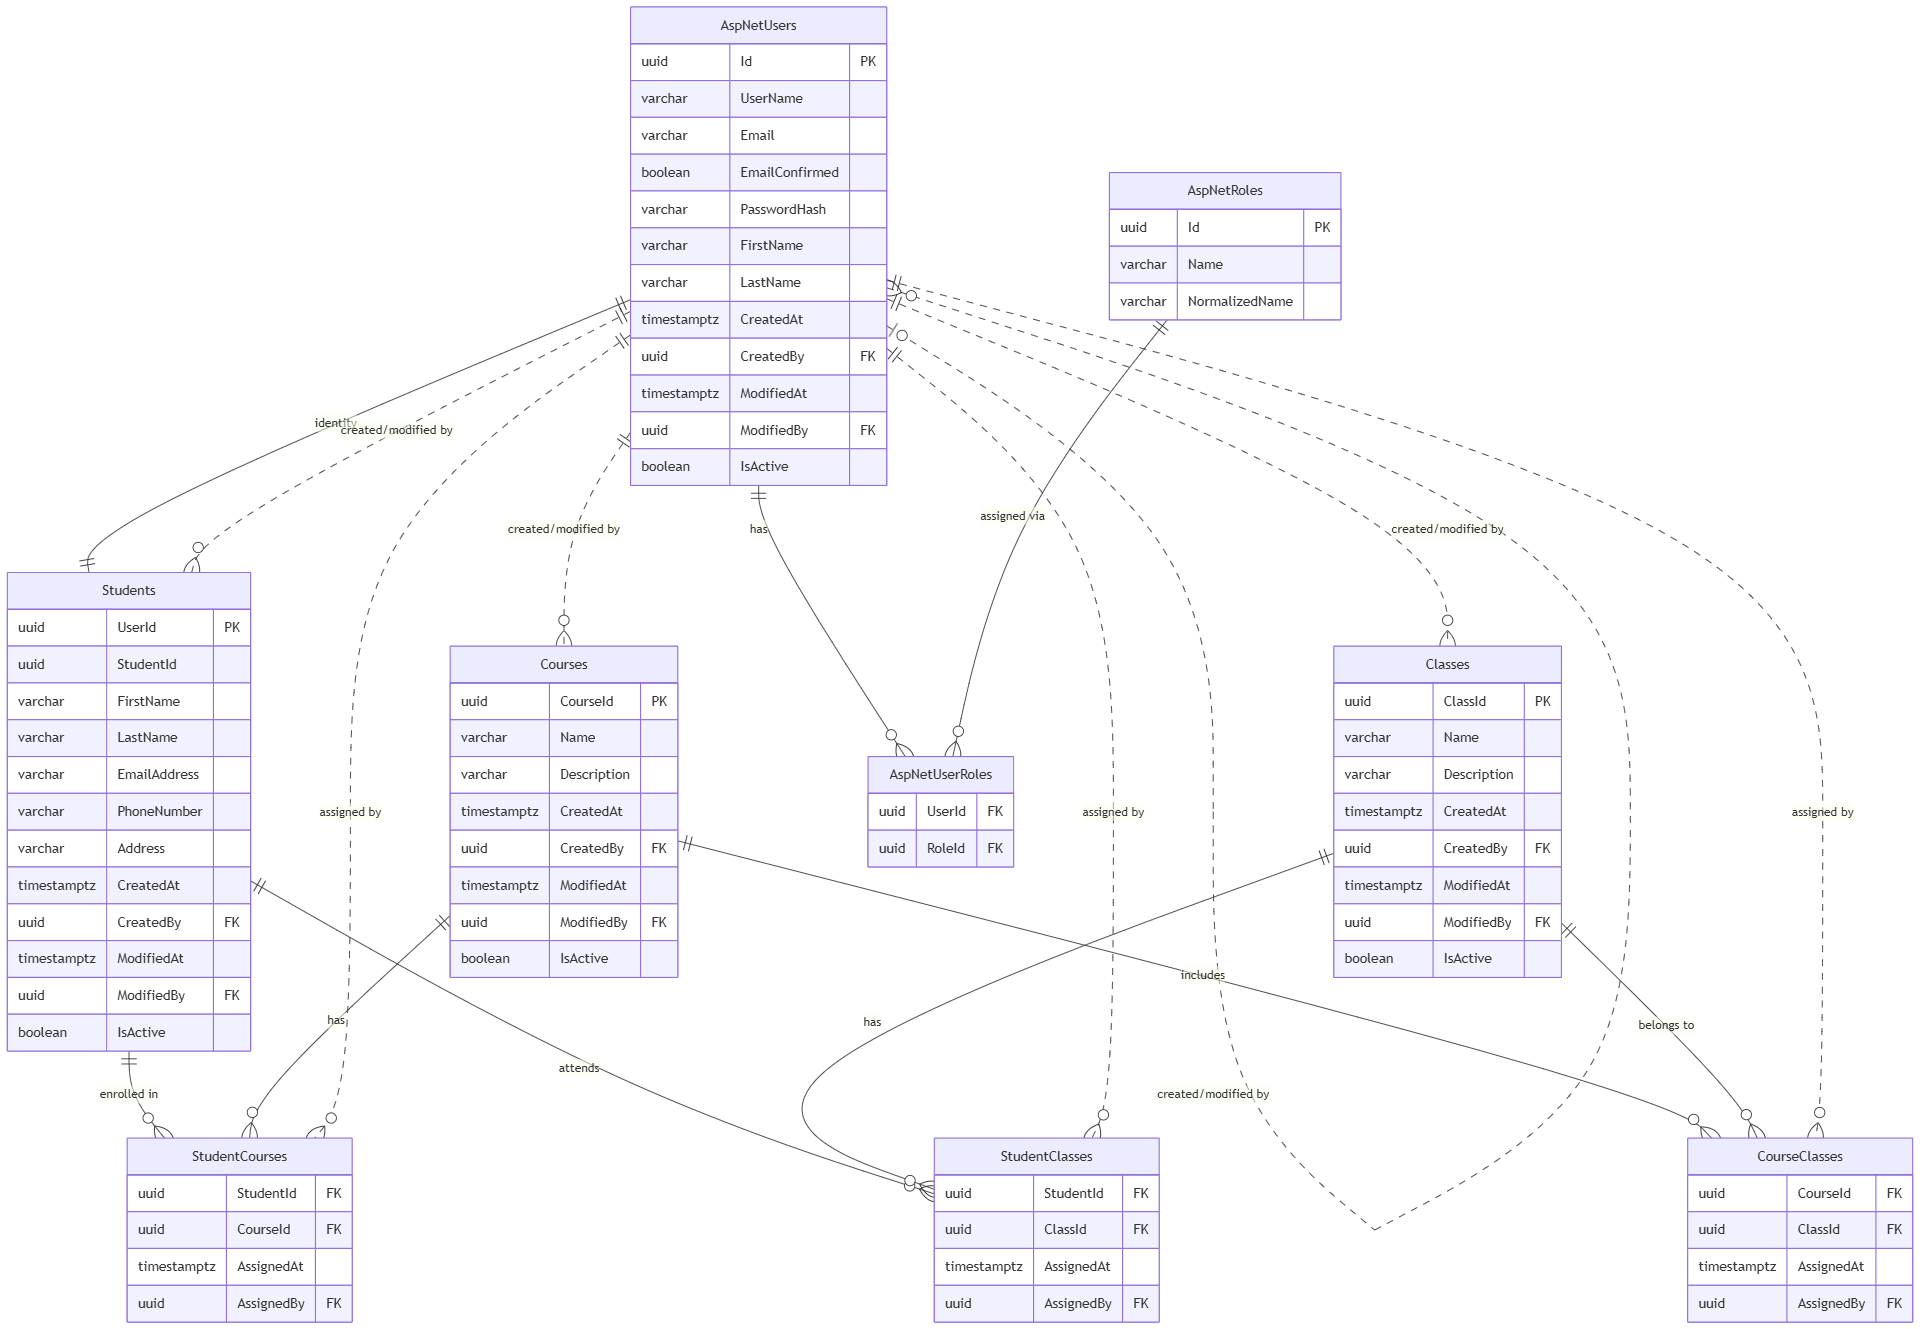
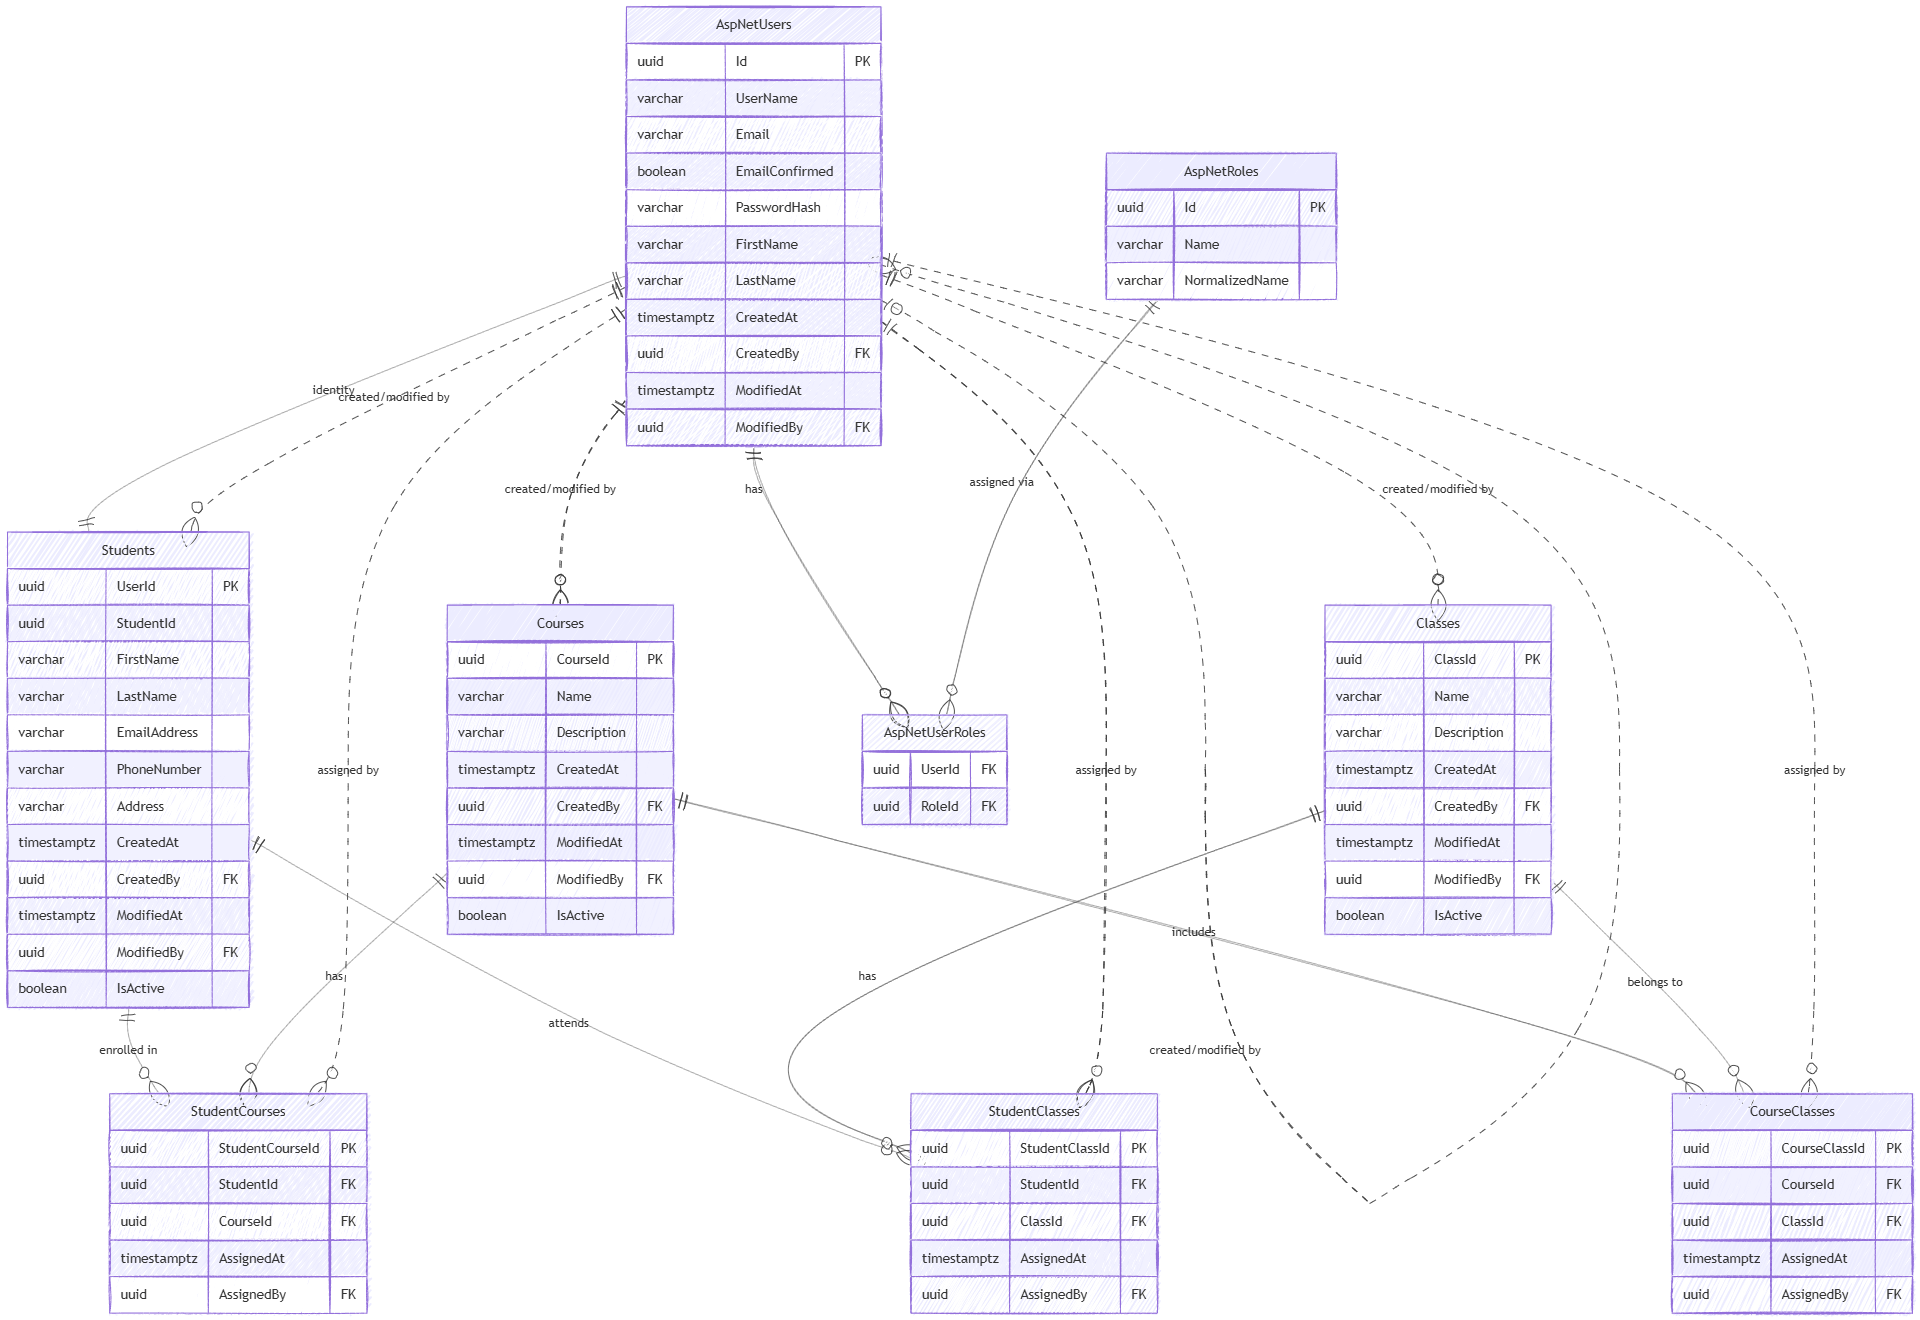
feat: add role constants, remove IsActive field and update ERD
- Add Roles constants class for consistent role names across the codebase
- Remove IsActive field from AspNetUsers table and AuditTrailBase model
- Add primary key fields to junction tables in ERD
- Update AuthService to remove IsActive check during authentication
- Update DataSeeder to use Roles constants for role creation and assignment

diff --git a/src/Backend/LearnWellUniversity_CMS/LearnWellUniversity_CMS.Infrastructure/DataAccess/DataSeeder.cs b/src/Backend/LearnWellUniversity_CMS/LearnWellUniversity_CMS.Infrastructure/DataAccess/DataSeeder.cs
@@ -1,4 +1,5 @@
 using LearnWellUniversity_CMS.Domain.Models;
+using LearnWellUniversity_CMS.Shared.Constants;
 using Microsoft.AspNetCore.Identity;
 
 namespace LearnWellUniversity_CMS.Infrastructure.DataAccess;
@@ -7,7 +8,7 @@ public class DataSeeder
 {
     public static async Task SeedAsync(UserManager<ApplicationUser> userManager, RoleManager<IdentityRole<Guid>> roleManager)
     {
-        foreach (var role in new[] { "Staff", "Student" })
+        foreach (var role in new[] { Roles.Staff, Roles.Student })
         {
             if (!await roleManager.RoleExistsAsync(role))
                 await roleManager.CreateAsync(new IdentityRole<Guid>(role));
@@ -26,12 +27,11 @@ public class DataSeeder
                 UserName = adminEmail,
                 EmailConfirmed = true,
                 CreatedAt = DateTimeOffset.UtcNow,
-                CreatedBy = id,
-                IsActive = true
+                CreatedBy = id
             };
             var result = await userManager.CreateAsync(admin, "Admin@123");
             if (result.Succeeded)
-                await userManager.AddToRoleAsync(admin, "Staff");
+                await userManager.AddToRoleAsync(admin, Roles.Staff);
         }
     }
 }

diff --git a/src/Backend/LearnWellUniversity_CMS/LearnWellUniversity_CMS.Domain/Models/Base/AuditTrailBase.cs b/src/Backend/LearnWellUniversity_CMS/LearnWellUniversity_CMS.Domain/Models/Base/AuditTrailBase.cs
@@ -8,7 +8,6 @@ public interface IAuditTrailBase
     public DateTimeOffset? ModifiedAt { get; set; }
     public Guid? ModifiedBy { get; set; }
     public ApplicationUser? ModifiedByUser { get; set; }
-    public bool IsActive { get; set; }
 }
 
 public abstract class AuditTrailBase : IAuditTrailBase
@@ -19,5 +18,4 @@ public abstract class AuditTrailBase : IAuditTrailBase
     public DateTimeOffset? ModifiedAt { get; set; }
     public Guid? ModifiedBy { get; set; }
     public ApplicationUser? ModifiedByUser { get; set; }
-    public bool IsActive { get; set; }
 }

diff --git a/src/Backend/LearnWellUniversity_CMS/LearnWellUniversity_CMS.Application/Services/AuthService.cs b/src/Backend/LearnWellUniversity_CMS/LearnWellUniversity_CMS.Application/Services/AuthService.cs
@@ -20,7 +20,7 @@ public class AuthService(UserManager<ApplicationUser> userManager, IConfiguratio
     public async Task<AuthenticationResponse?> AuthenticateAsync(AuthenticationRequest request)
     {
         var user = await userManager.FindByNameAsync(request.UserName);
-        if (user is null || !user.IsActive || !await userManager.CheckPasswordAsync(user, request.Password))
+        if (user is null || !await userManager.CheckPasswordAsync(user, request.Password))
             return null;
 
         var roles = await userManager.GetRolesAsync(user);

diff --git a/src/Backend/LearnWellUniversity_CMS/LearnWellUniversity_CMS.Shared/Constants/Roles.cs b/src/Backend/LearnWellUniversity_CMS/LearnWellUniversity_CMS.Shared/Constants/Roles.cs
@@ -1,0 +1,7 @@
+namespace LearnWellUniversity_CMS.Shared.Constants;
+
+public static class Roles
+{
+    public const string Staff = "Staff";
+    public const string Student = "Student";
+}

diff --git a/diagram/erd.md b/diagram/erd.md
@@ -12,7 +12,6 @@ AspNetUsers {
     uuid    CreatedBy           FK
     timestamptz ModifiedAt
     uuid    ModifiedBy          FK
-    boolean IsActive
 }
 
 Students {
@@ -55,6 +54,7 @@ Classes {
 
 
 CourseClasses {
+    uuid        CourseClassId   PK
     uuid        CourseId        FK
     uuid        ClassId         FK
     timestamptz AssignedAt
@@ -62,6 +62,7 @@ CourseClasses {
 }
 
 StudentCourses {
+    uuid        StudentCourseId PK
     uuid        StudentId       FK
     uuid        CourseId        FK
     timestamptz AssignedAt
@@ -69,6 +70,7 @@ StudentCourses {
 }
 
 StudentClasses {
+    uuid        StudentClassId  PK
     uuid        StudentId       FK
     uuid        ClassId         FK
     timestamptz AssignedAt
